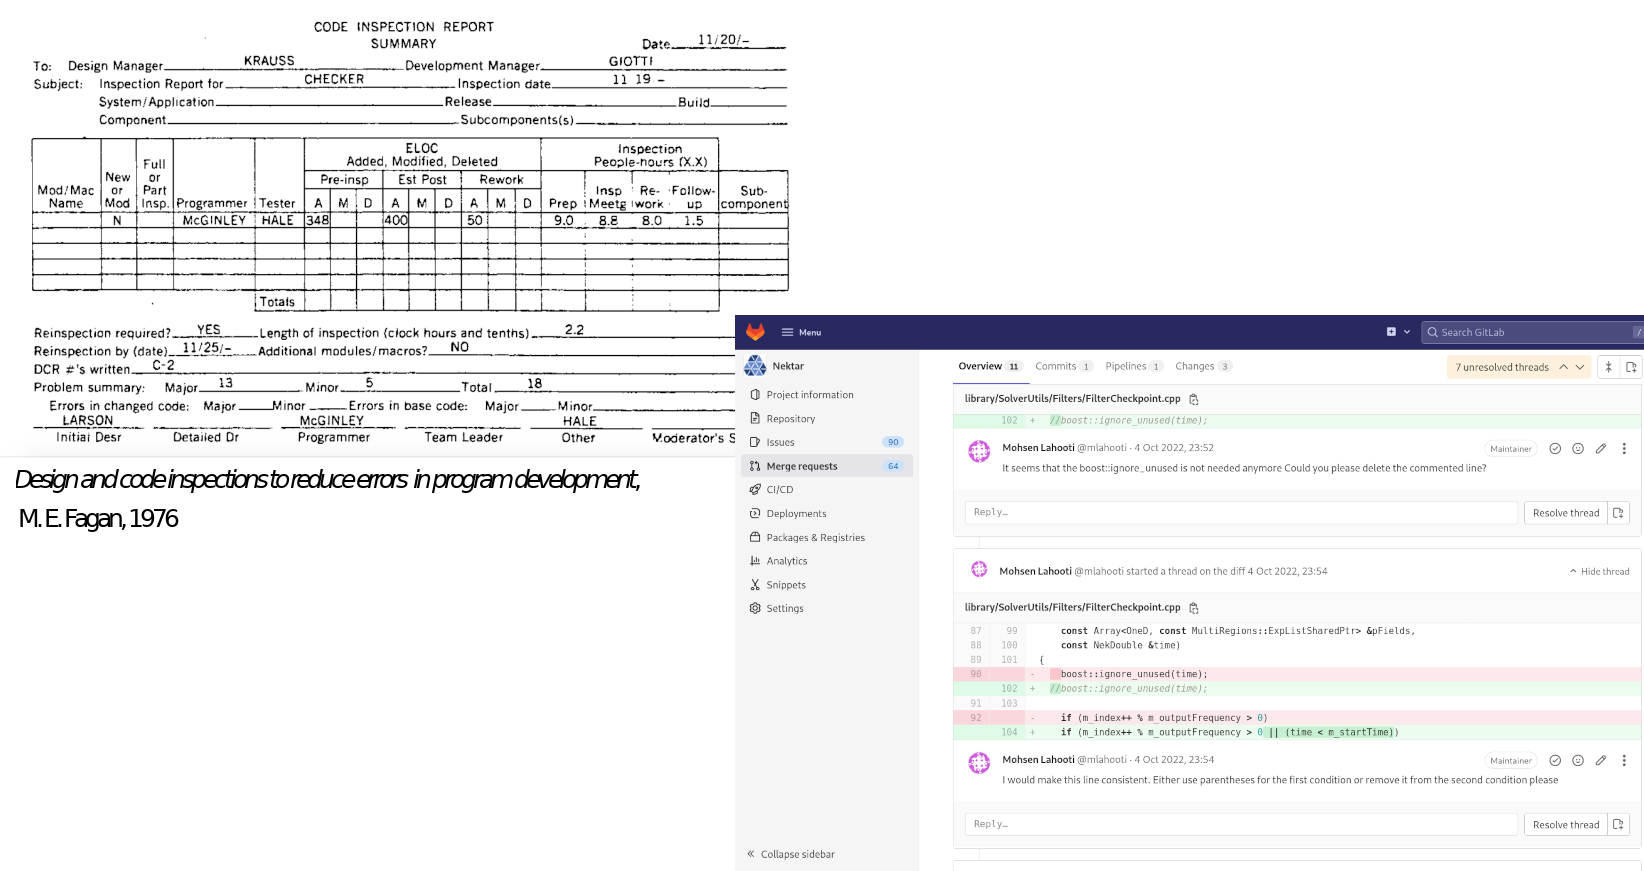
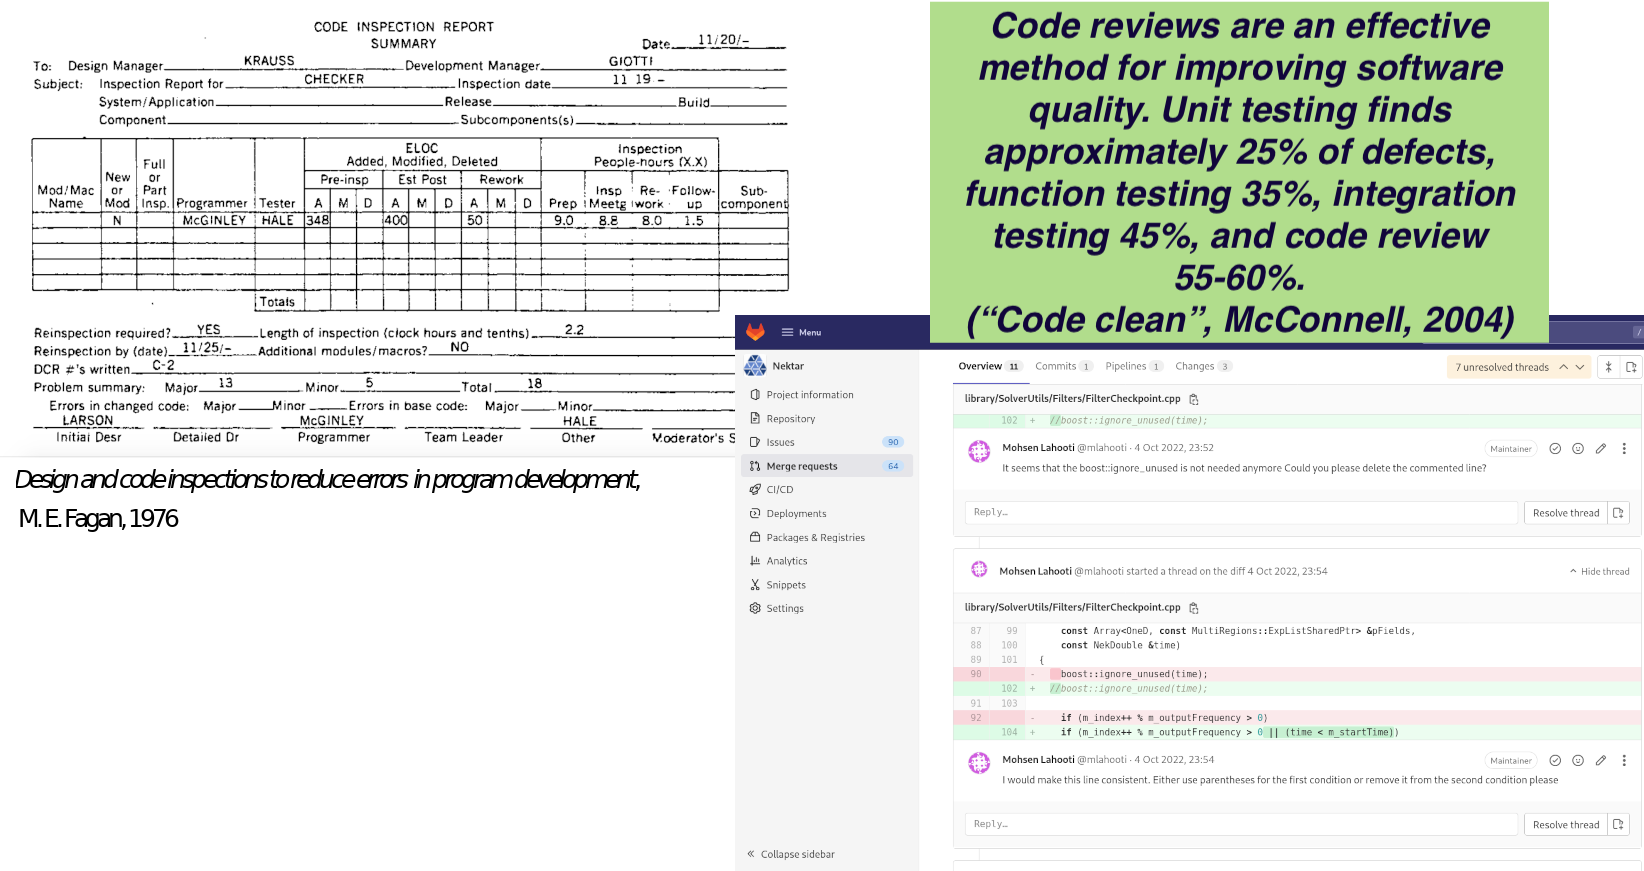
shuffled intro round

Changed region(s): [[0.5584, 0.0, 0.9617, 0.403]]

diff --git a/slides/slides.md b/slides/slides.md
@@ -13,11 +13,17 @@ keywords: ["Code Review", "Software Sustainability Institute", "Research Softwar
 
 ### Code review?
 
-Main benefits: (1) catching bugs (2) Ensuring quality standard (3) Spreading knowledge (4) Training new developers
+Main benefits:
 
-> <sub><sup>**Code reviews are an effective method for improving software quality. Unit testing finds approximately 25% of defects, function testing 35%, integration testing 45%, and code review 55-60%.** (McConnell, 2004)</sub></sup>
+(1) Catching bugs
 
-![img](img/men-talking.jpg)
+(2) Ensuring quality standard
+
+(3) Spreading knowledge
+
+(4) Training new developers
+
+![__](img/men-talking.jpg)
 
 ::: notes
 
